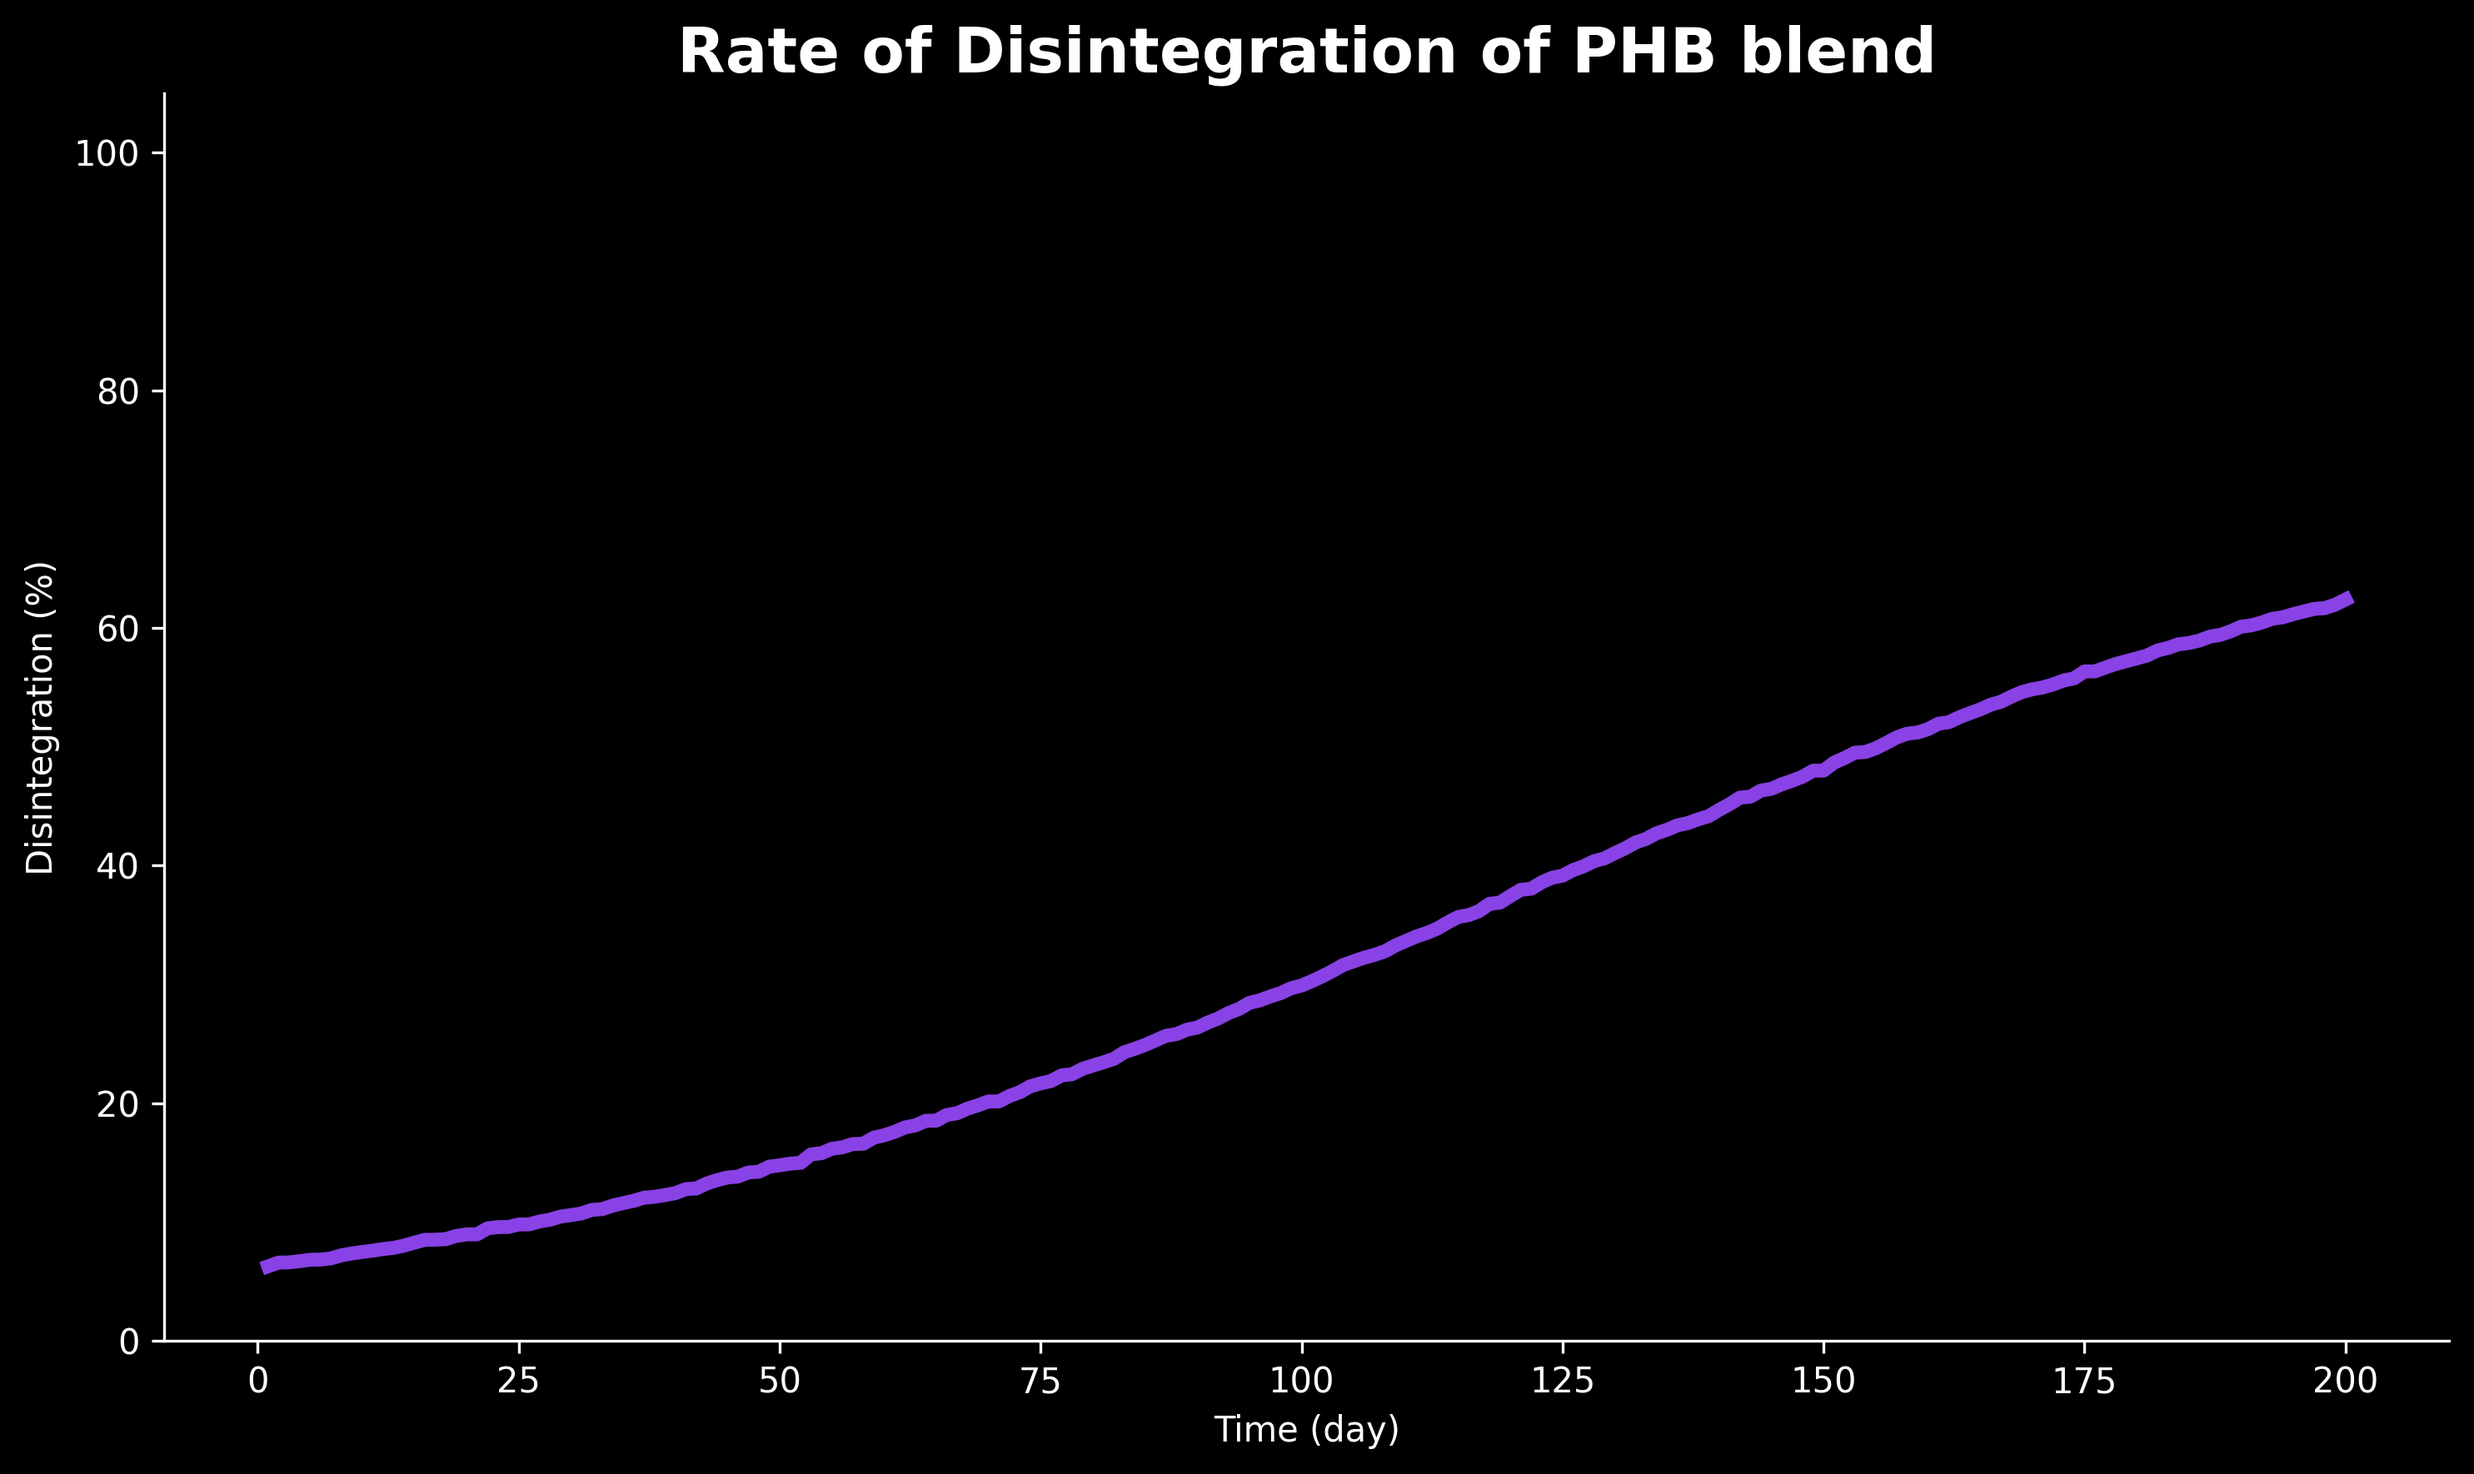
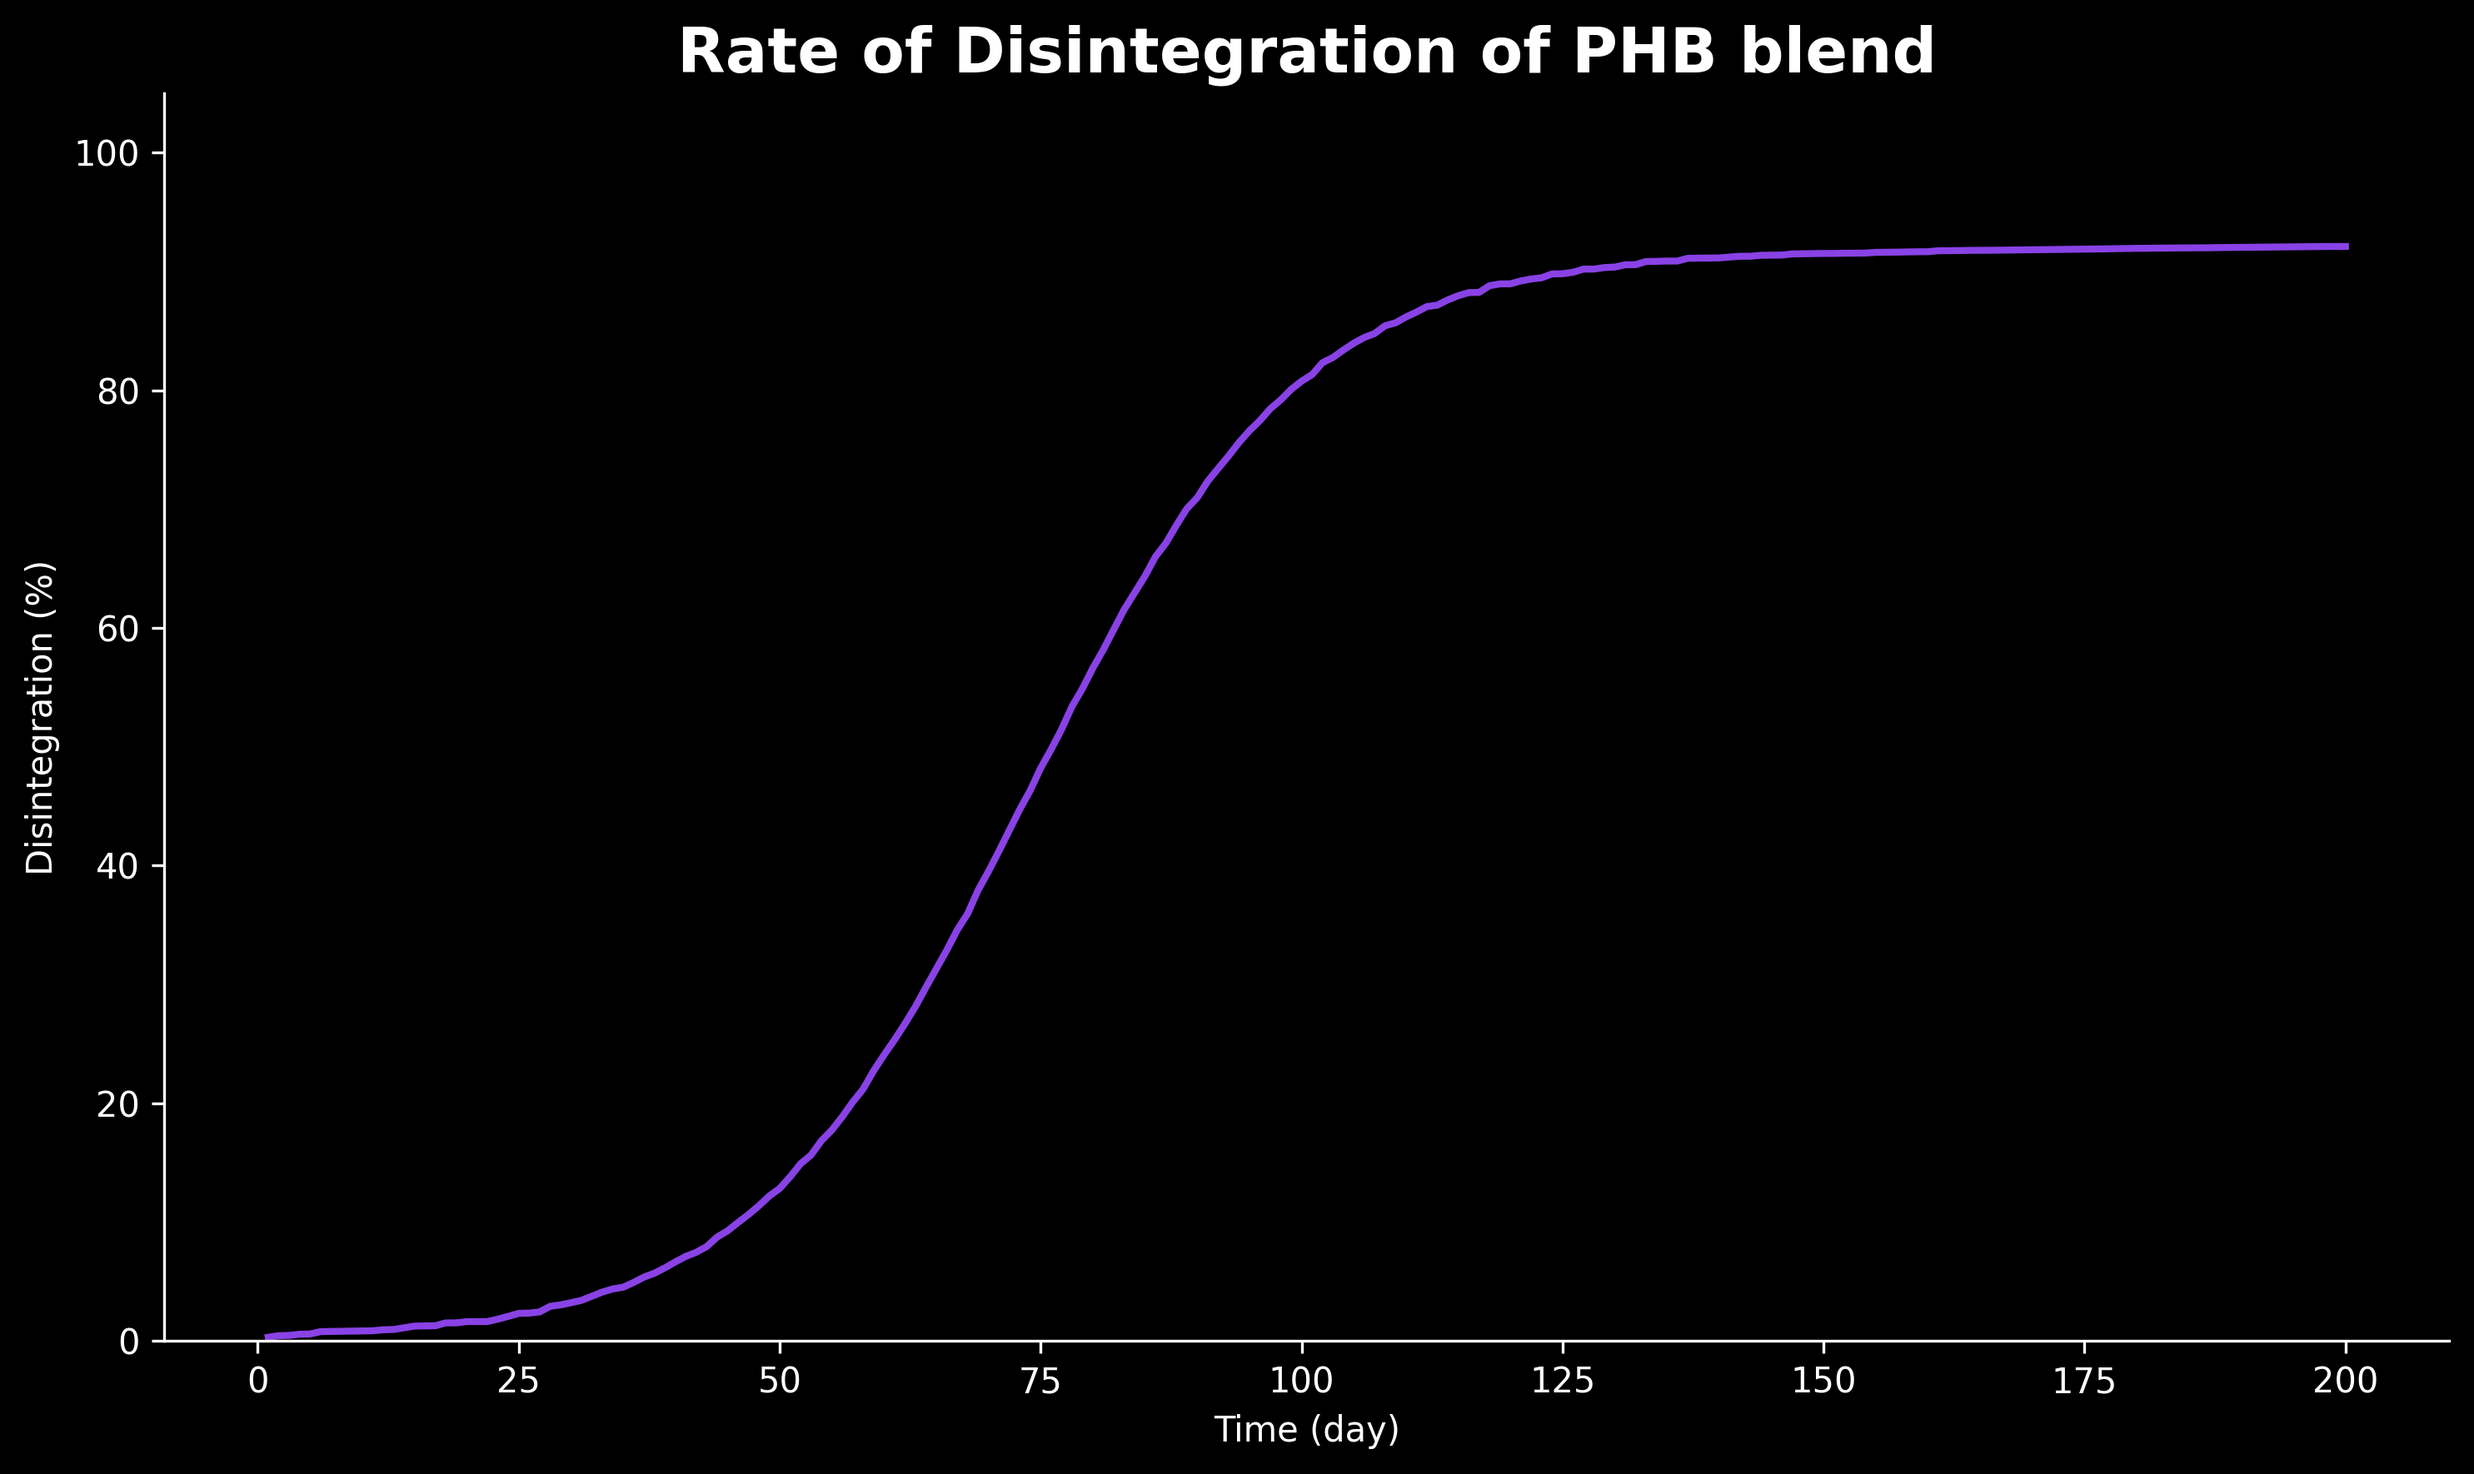
app update

diff --git a/augment_blends_28C_cli.py b/augment_blends_28C_cli.py
@@ -191,64 +191,44 @@ def run_streamlit_app():
                 st.error(f"❌ Total: {total_vol_frac:.2f} (should be 1.0)")
         
         # Generate button
-        if st.button("🚀 Generate Disintegration Curve", type="primary"):
+        generate_clicked = st.button("🚀 Generate Disintegration Curve", type="primary")
+        plot_ready = False
+        temp_output = None
+        blend_string = None
+        blend_curve = None
+        value_90 = value_180 = float('nan')
+        if generate_clicked:
             if not selected_materials:
                 st.error("Please select at least one material.")
             elif abs(total_vol_frac - 1.0) > 0.01:
                 st.error("Volume fractions must sum to 1.0.")
             else:
-                # Create blend string
                 blend_parts = []
                 for material, vol_frac in zip(selected_materials, volume_fractions):
                     blend_parts.extend([material['grade'], str(vol_frac)])
                 blend_string = ",".join(blend_parts)
-                
                 try:
-                    # Generate curve
                     temp_output = "temp_blend_curve.png"
                     generate_custom_blend_curves([blend_string], temp_output)
-                    
-                    # Store the result for display in the right column
-                    st.session_state['plot_generated'] = True
-                    st.session_state['temp_output'] = temp_output
-                    st.session_state['selected_materials'] = selected_materials
-                    st.session_state['volume_fractions'] = volume_fractions
-                    
+                    from modules.blend_generator import generate_blend
+                    _, blend_curve = generate_blend(blend_string)
+                    value_90 = blend_curve[89] if len(blend_curve) > 89 else float('nan')
+                    value_180 = blend_curve[179] if len(blend_curve) > 179 else float('nan')
+                    plot_ready = True
                 except Exception as e:
                     st.error(f"Error: {str(e)}")
-        
 
-    
     with col2:
         st.markdown("### Results")
-        
-        # Check if plot has been generated
-        if 'plot_generated' in st.session_state and st.session_state['plot_generated']:
-            # Display plot
-            st.image(st.session_state['temp_output'], use_container_width=True)
-            
-            # Download button
-            with open(st.session_state['temp_output'], "rb") as file:
+        if plot_ready and temp_output:
+            st.image(temp_output, use_container_width=True)
+            with open(temp_output, "rb") as file:
                 st.download_button(
                     label="📥 Download Plot",
                     data=file.read(),
                     file_name="polymer_blend_disintegration.png",
                     mime="image/png"
                 )
-            
-            # Show only 90 day and 180 day values (for the first/only blend)
-            # Get the blend curve from the file or from the last calculation
-            # We'll recalculate it here for robustness
-            blend_parts = []
-            for material, vol_frac in zip(st.session_state['selected_materials'], st.session_state['volume_fractions']):
-                blend_parts.extend([material['grade'], str(vol_frac)])
-            blend_string = ",".join(blend_parts)
-            from modules.blend_generator import generate_blend
-            _, blend_curve = generate_blend(blend_string)
-            
-            value_90 = blend_curve[89] if len(blend_curve) > 89 else float('nan')
-            value_180 = blend_curve[179] if len(blend_curve) > 179 else float('nan')
-            
             st.markdown(f"""
             <div style='margin-top:2em;font-size:1.3em;'>
                 <b>mid-point (90 day):</b> {value_90:.1f}%<br>

diff --git a/modules/plotting.py b/modules/plotting.py
@@ -48,7 +48,7 @@ def generate_custom_blend_curves(blend_strings, output_filename):
             color = colors[i % len(colors)]
             x = np.arange(1, DAYS+1)
             y = curve
-            ax.plot(x, y, label=label, linewidth=4, color=color)
+            ax.plot(x, y, label=label, linewidth=2, color=color)
             print(f"Plotted: {label} (max: {np.max(y):.1f}%, 90d: {y[89]:.1f}%)")
         # Set axis and title colors
         ax.tick_params(colors='white', which='both')
